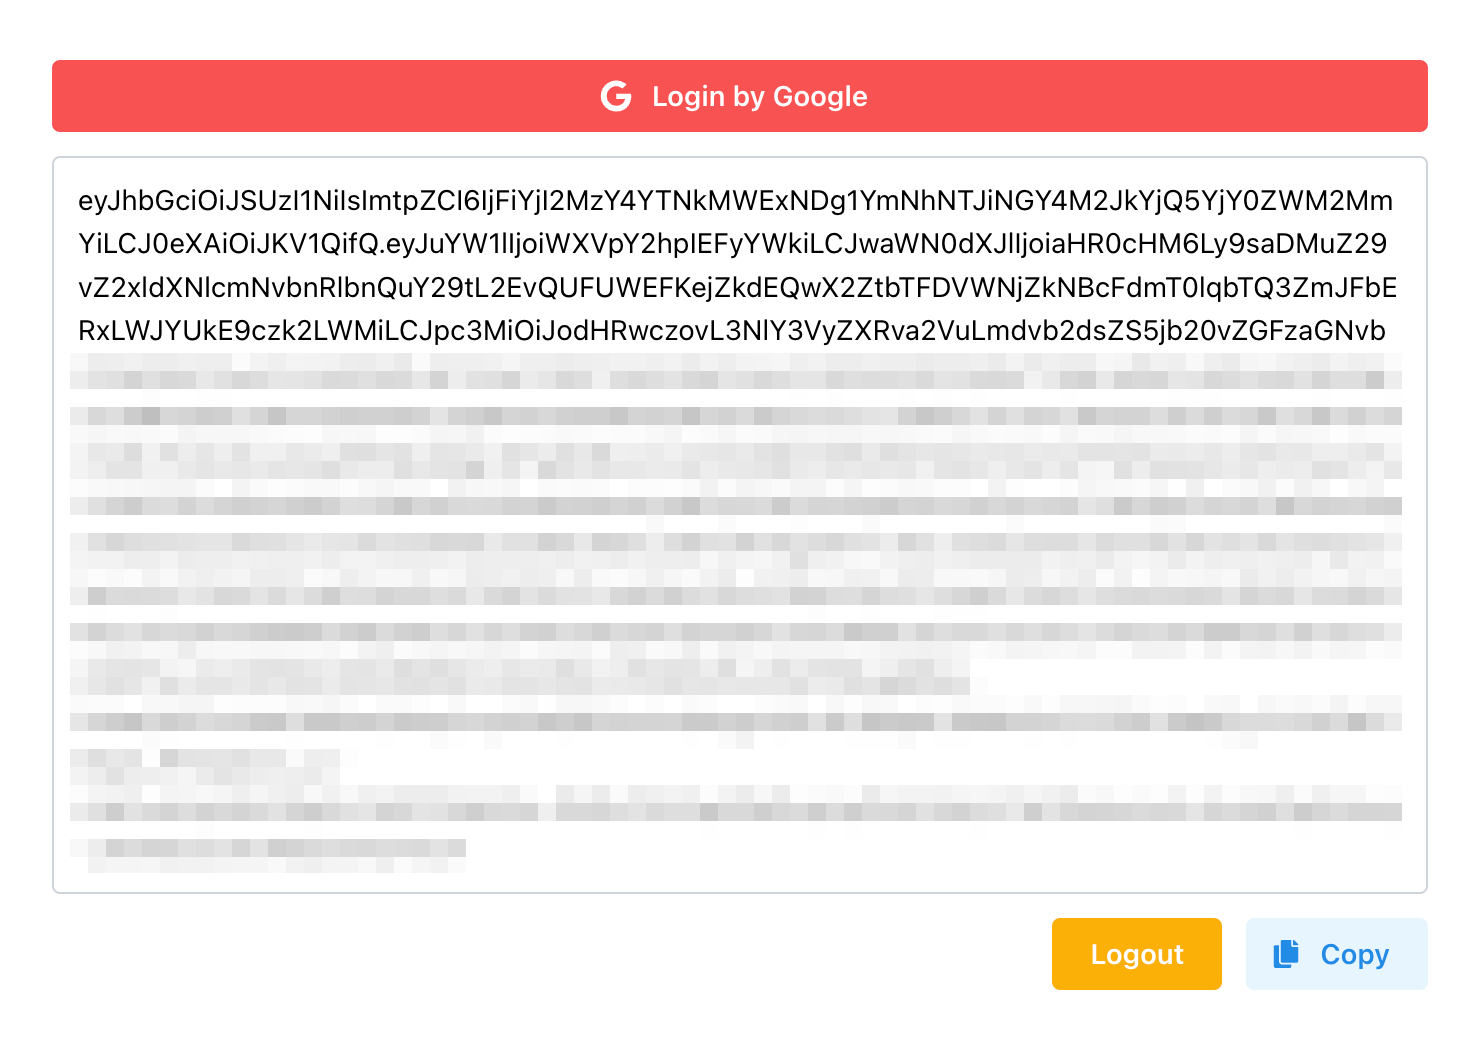
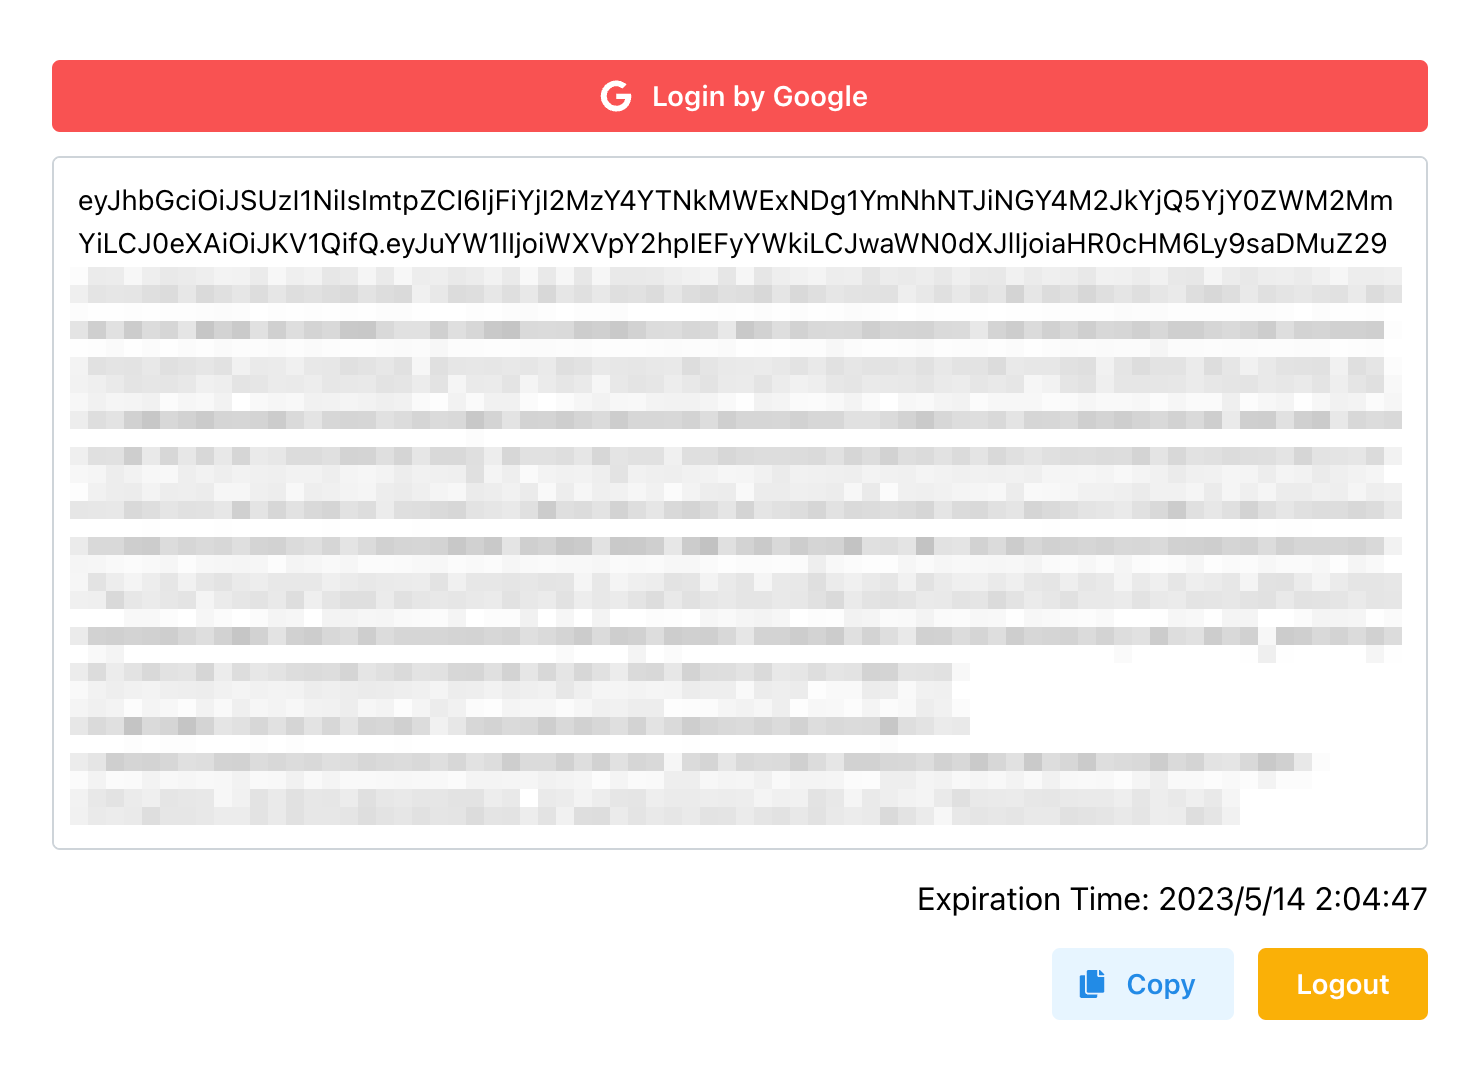
トークンの期限を表示

Changed region(s): [[0.0311, 0.3736, 0.9635, 0.8094], [0.0311, 0.0623, 0.9635, 0.3425], [0.6216, 0.8094, 0.9635, 0.9651]]

diff --git a/src/App.tsx b/src/App.tsx
@@ -1,10 +1,17 @@
 import { auth, login, logout } from "./firebase";
-import { Button, Textarea, Flex, Container, CopyButton } from "@mantine/core";
+import {
+	Button,
+	Textarea,
+	Flex,
+	Container,
+	CopyButton,
+	Text,
+} from "@mantine/core";
 import { FaCheck, FaCopy, FaGoogle } from "react-icons/fa";
-import { useToken } from "./useToken";
+import { useAuthState } from "./useAuthState.ts";
 
 function App() {
-	const [token, loading] = useToken(auth);
+	const [user, loading] = useAuthState(auth);
 
 	return (
 		<Container py={30} size="sm">
@@ -17,14 +24,15 @@ function App() {
 				>
 					Login by Google
 				</Button>
-				{token && (
+				{user && (
 					<>
-						<Textarea value={token} autosize />
+						<Textarea value={user.accessToken} autosize />
+						<Text align="end">
+							Expiration Time:{" "}
+							{new Date(user.stsTokenManager.expirationTime).toLocaleString()}
+						</Text>
 						<Flex justify="flex-end" gap={{ base: "sm" }}>
-							<Button onClick={logout} color="yellow">
-								Logout
-							</Button>
-							<CopyButton value={token}>
+							<CopyButton value={user.accessToken}>
 								{({ copied, copy }) => (
 									<Button
 										variant="light"
@@ -36,6 +44,9 @@ function App() {
 									</Button>
 								)}
 							</CopyButton>
+							<Button onClick={logout} color="yellow">
+								Logout
+							</Button>
 						</Flex>
 					</>
 				)}

diff --git a/src/useAuthState.ts b/src/useAuthState.ts
@@ -1,0 +1,34 @@
+import { useIdToken } from "react-firebase-hooks/auth";
+import { Auth, User } from "firebase/auth";
+import { useEffect } from "react";
+
+type AuthUser = User & {
+	accessToken: string;
+	stsTokenManager: {
+		expirationTime: number;
+	};
+};
+
+export const useAuthState = (
+	auth: Auth,
+): [AuthUser | undefined, boolean, Error | undefined] => {
+	const [user, loading, error] = useIdToken(auth);
+
+	// https://github.com/CSFrequency/react-firebase-hooks/issues/299
+	const refreshToken = (authUser: AuthUser) => {
+		const tokenLife = authUser.stsTokenManager.expirationTime - Date.now();
+		const timer = setTimeout(() => {
+			authUser.getIdToken(true).catch(console.error);
+		}, tokenLife);
+		return () => clearTimeout(timer);
+	};
+
+	useEffect(() => {
+		if (user) {
+			const authUser = user as AuthUser;
+			return refreshToken(authUser);
+		}
+	}, [user]);
+
+	return [user as AuthUser, loading, error];
+};
